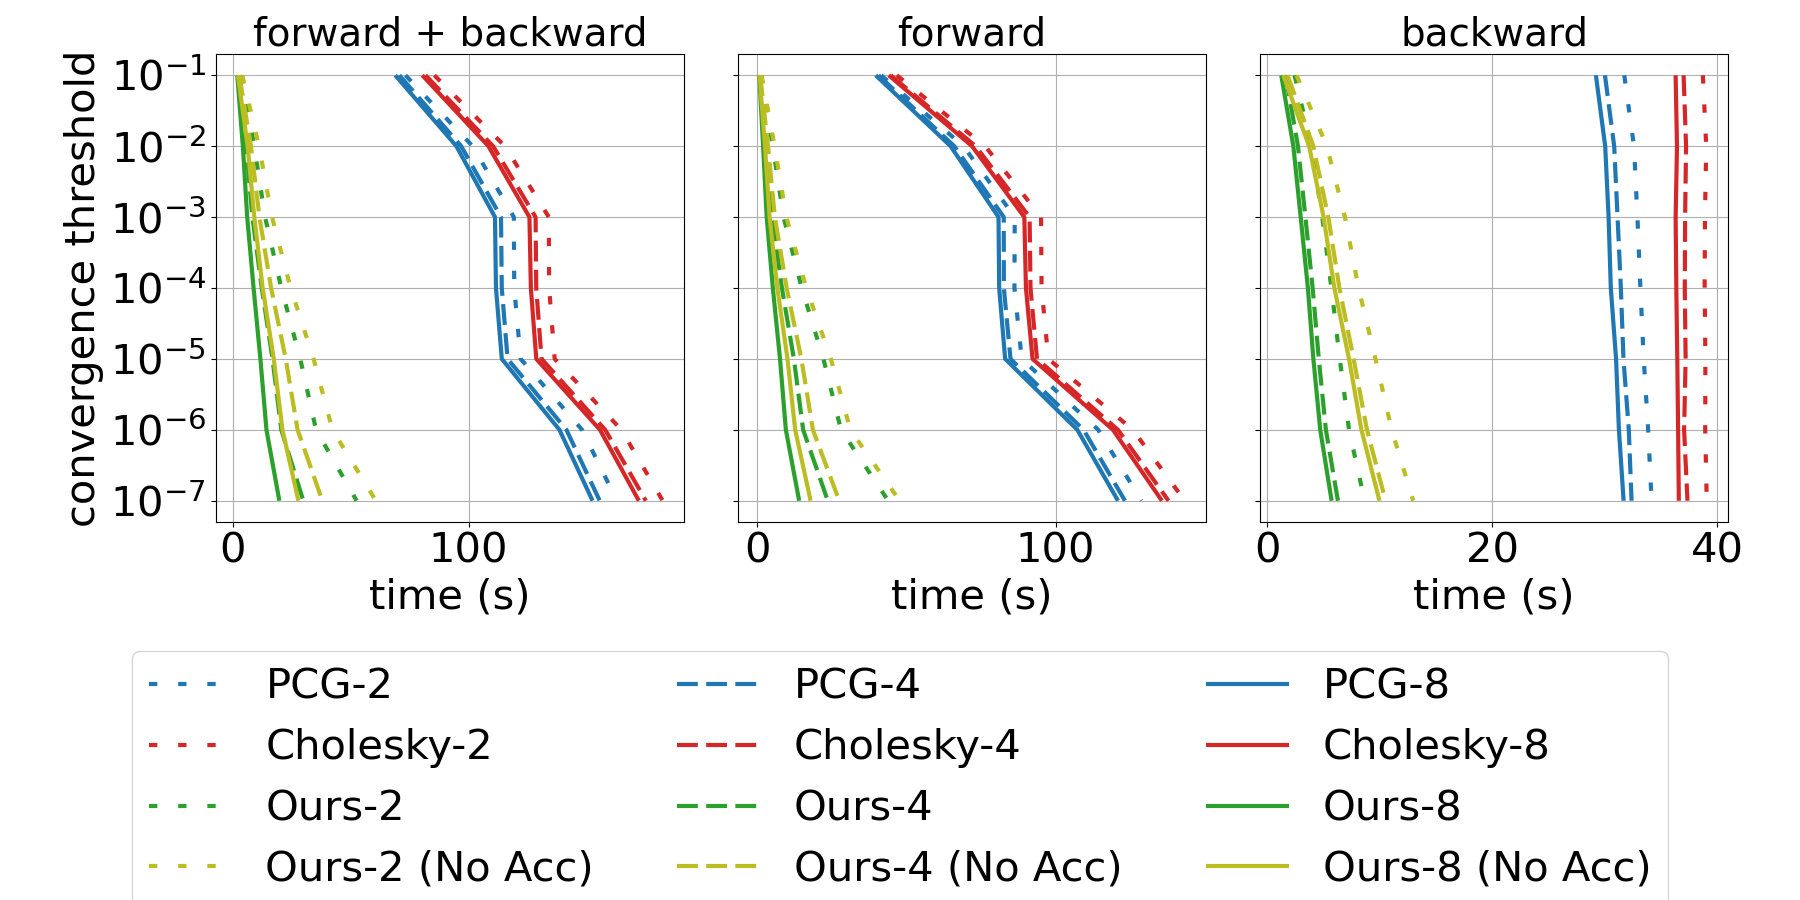
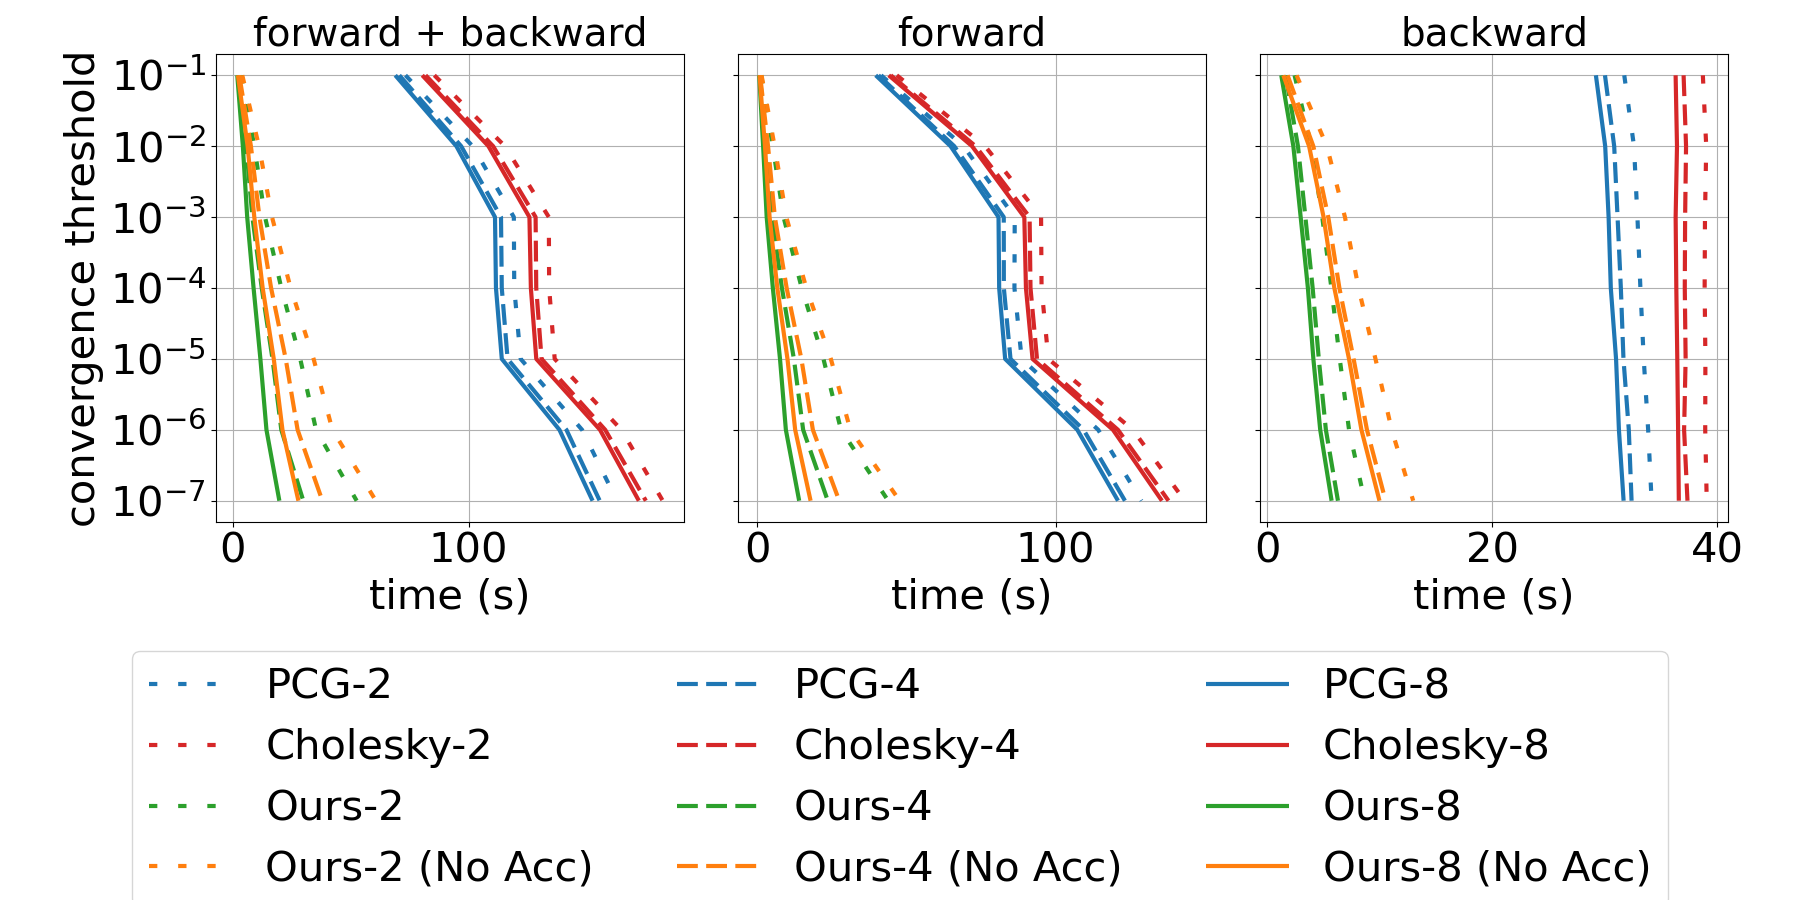
Change olive to orange. [skip ci]

diff --git a/python/example/print_benchmark_3d_table.py b/python/example/print_benchmark_3d_table.py
@@ -102,7 +102,7 @@ if __name__ == '__main__':
             elif 'cholesky' in method:
                 color = 'tab:red'
             elif 'bfgs' in method:
-                color = 'tab:olive'
+                color = 'tab:orange'
             if method == 'pd_no_bfgs' and title != 'backward':
                 continue
             for idx, thread_ct in enumerate(thread_cts):

diff --git a/python/example/print_rolling_jelly_3d_table.py b/python/example/print_rolling_jelly_3d_table.py
@@ -102,7 +102,7 @@ if __name__ == '__main__':
             elif 'cholesky' in method:
                 color = 'tab:red'
             elif 'acc' in method:
-                color = 'tab:olive'
+                color = 'tab:orange'
             if method == 'pd_no_bfgs' and title != 'backward':
                 continue
             for idx, thread_ct in enumerate(thread_cts):
